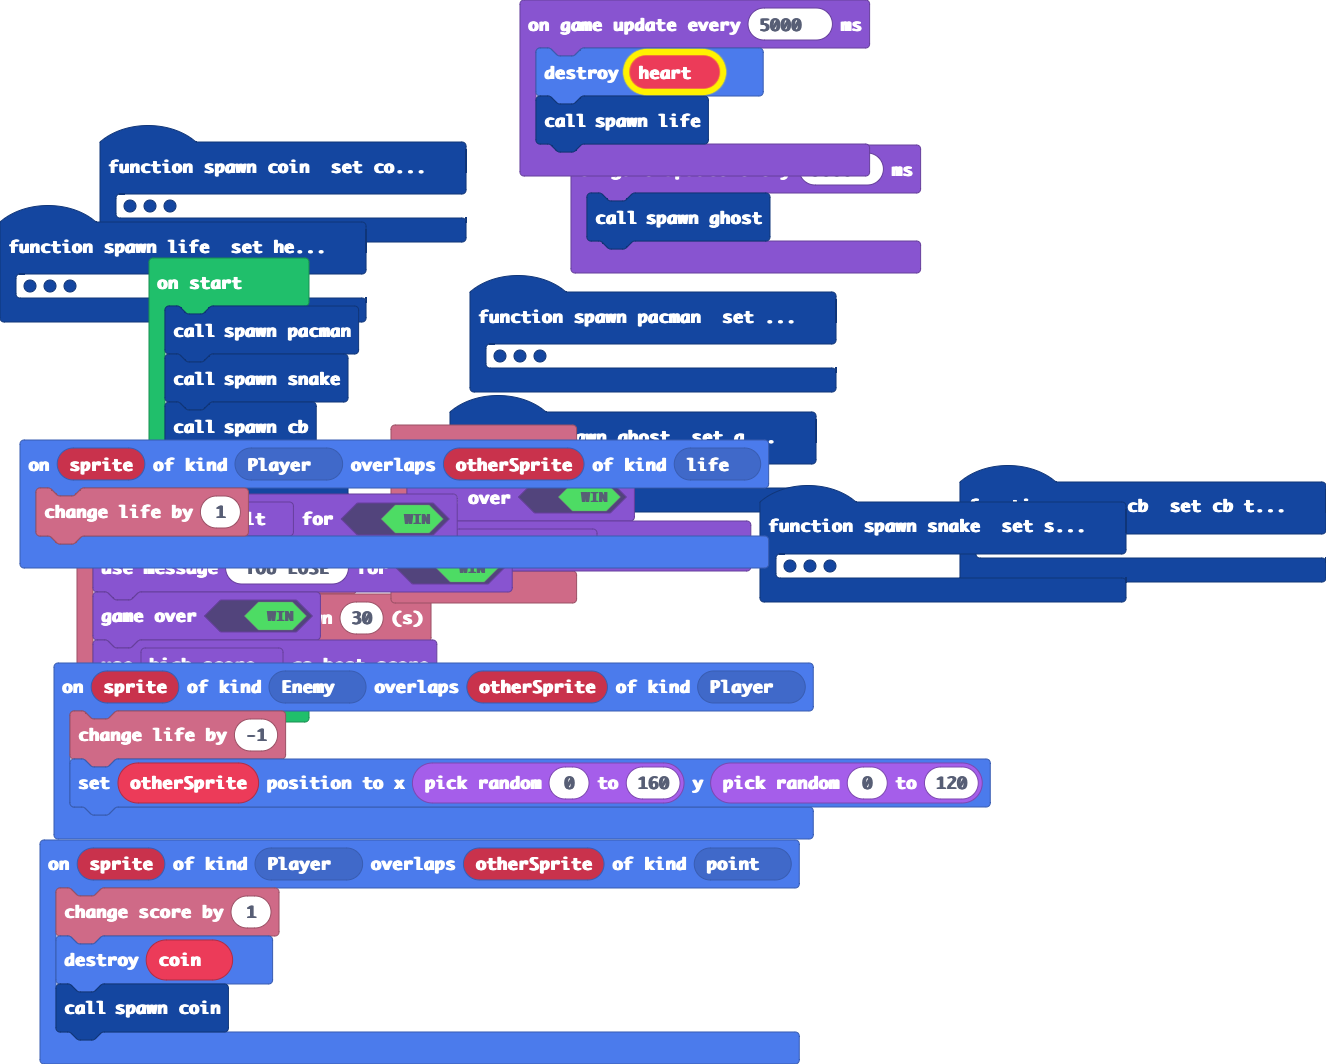
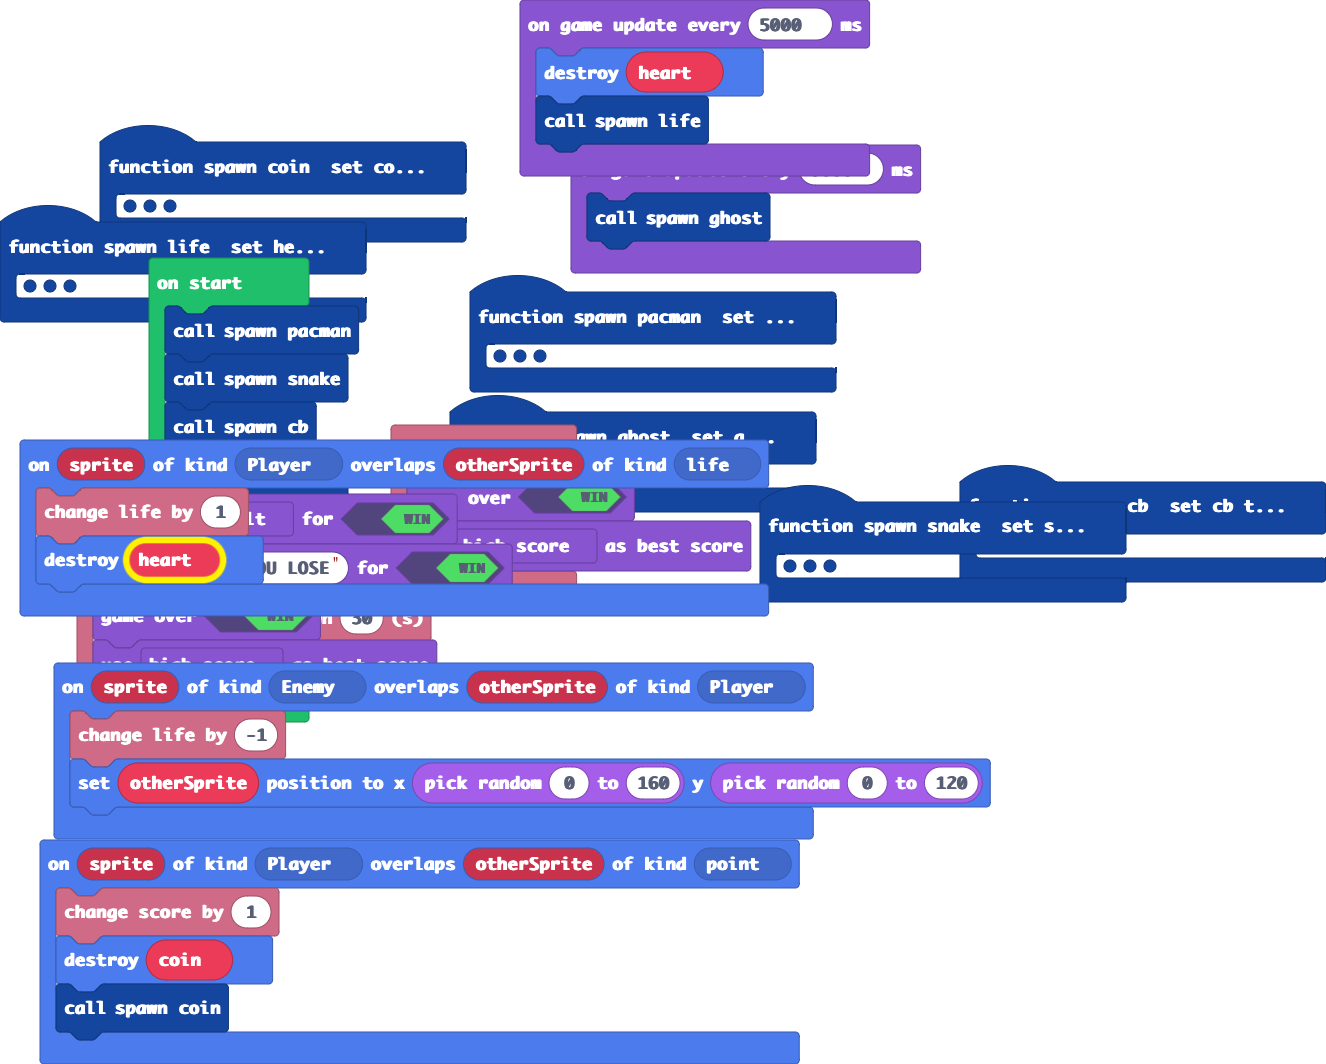
re fixed heart

Changed region(s): [[0.0, 0.4962, 0.5875, 0.5893], [0.4638, 0.031, 0.5566, 0.093]]

diff --git a/main.ts b/main.ts
@@ -145,6 +145,7 @@ sprites.onOverlap(SpriteKind.Player, SpriteKind.point, function (sprite, otherSp
 })
 sprites.onOverlap(SpriteKind.Player, SpriteKind.life, function (sprite, otherSprite) {
     info.changeLifeBy(1)
+    sprites.destroy(heart)
 })
 let cb: Sprite = null
 let heart: Sprite = null
